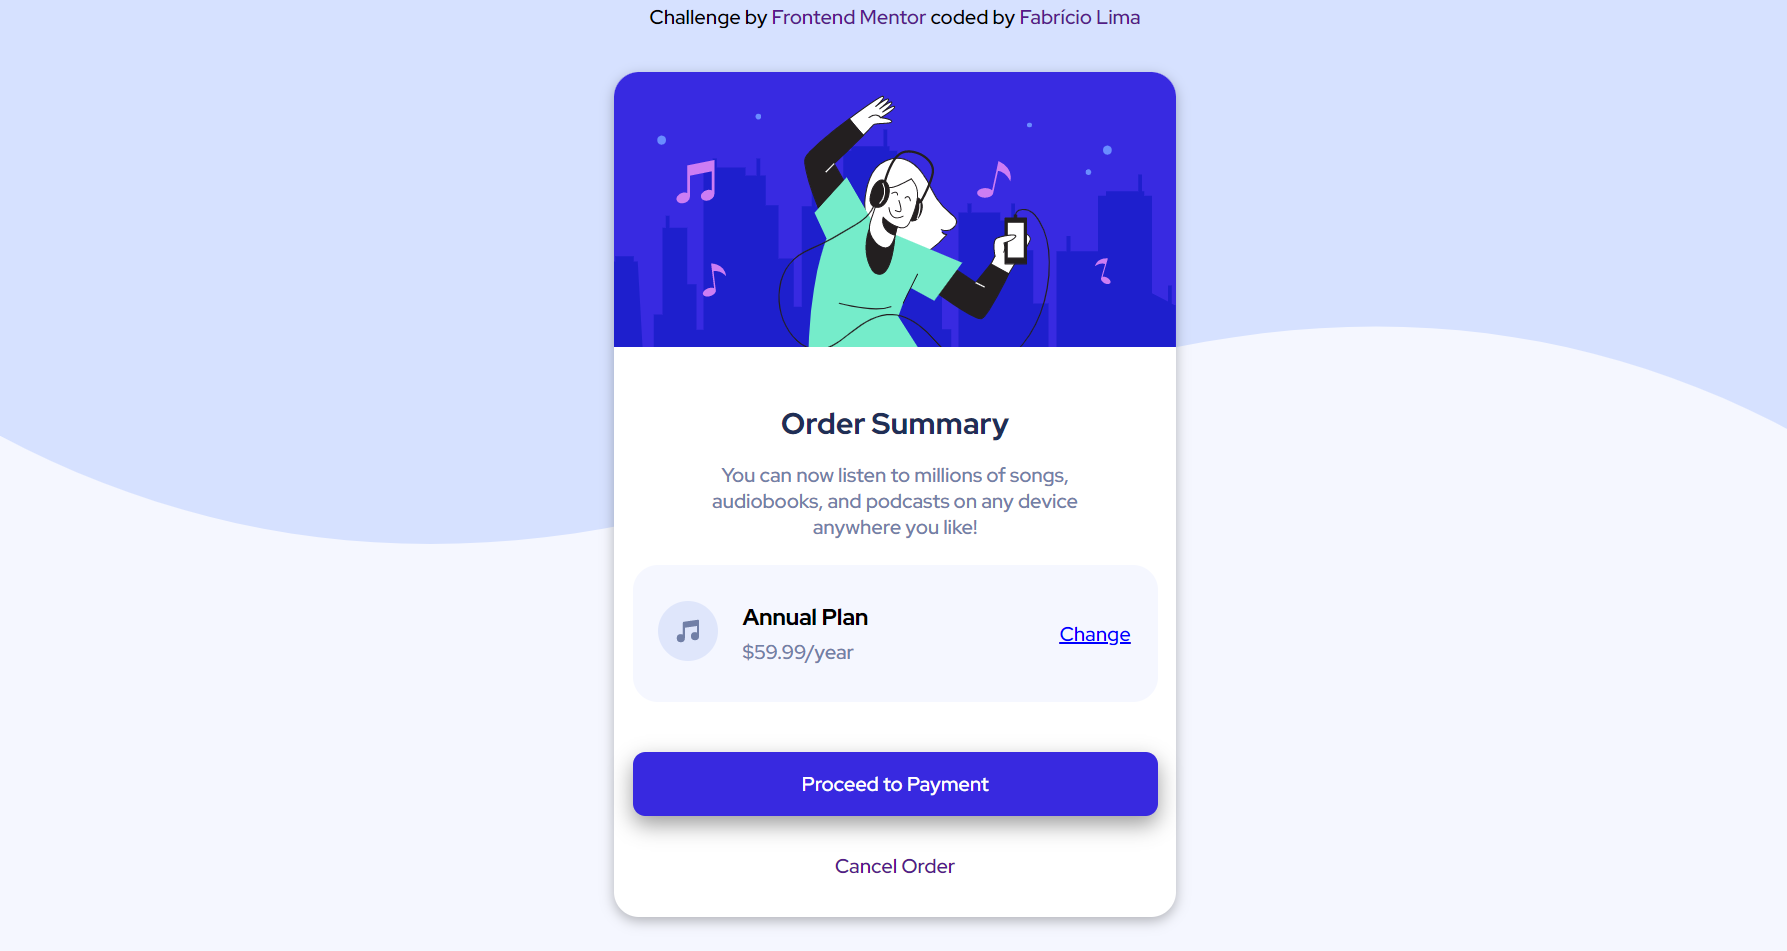
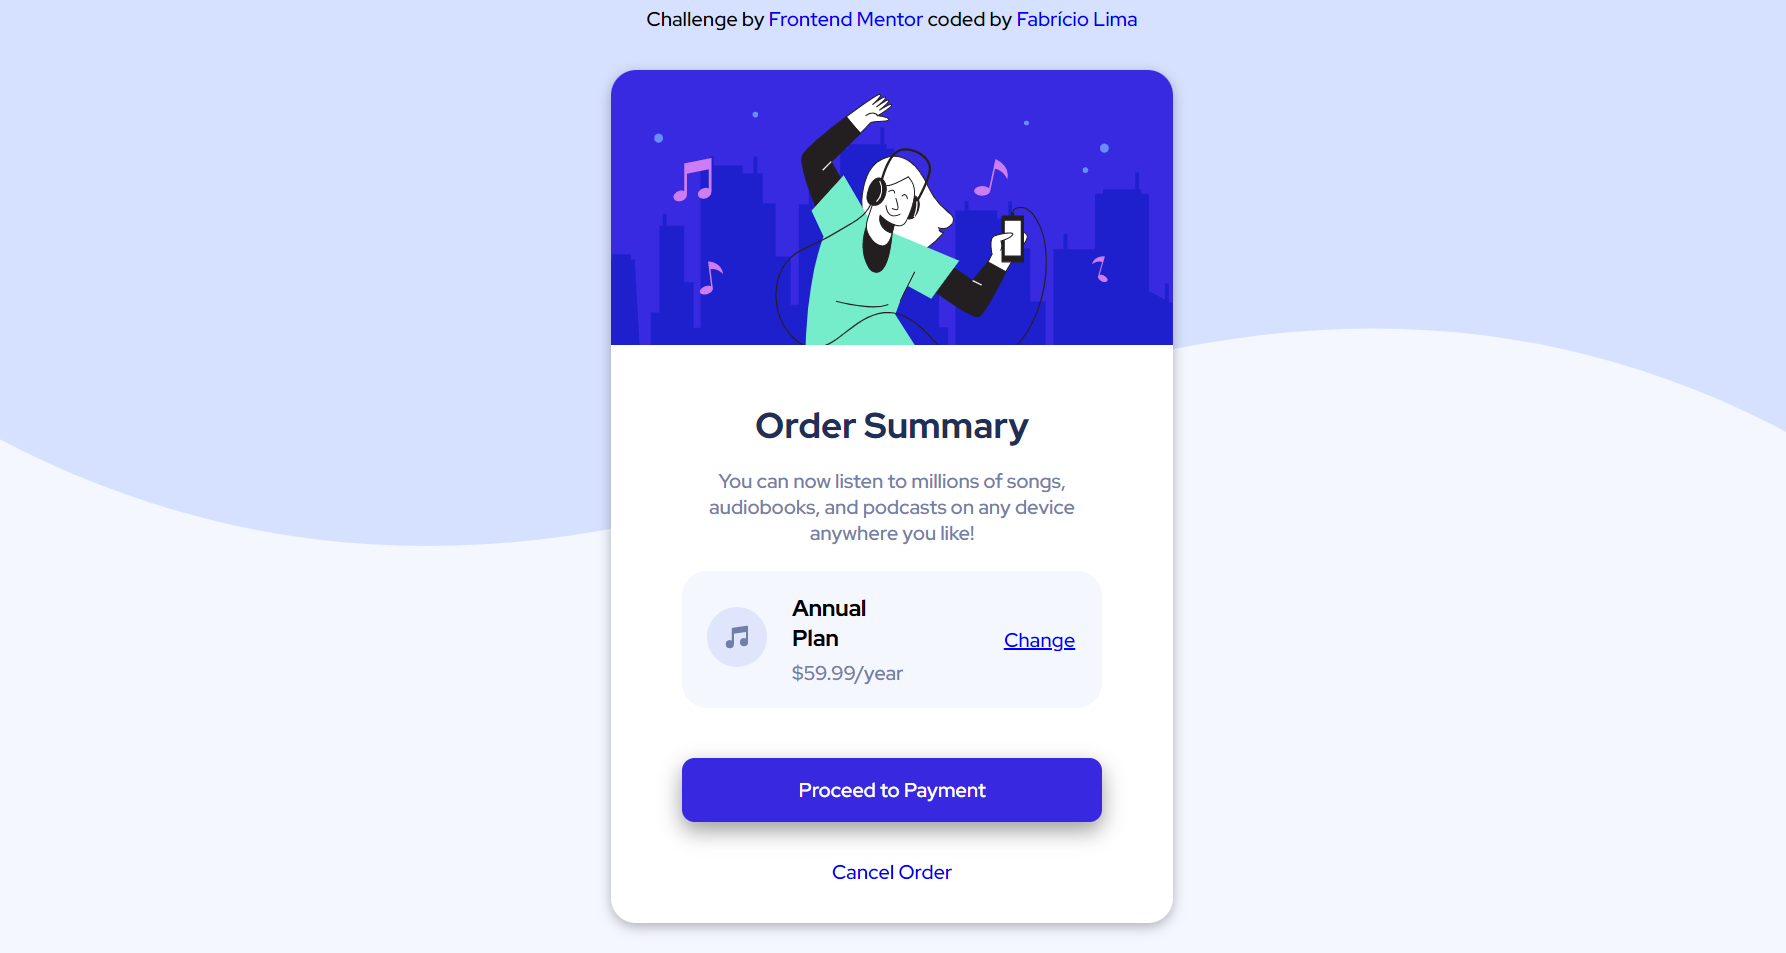
fixing the responsiveness

diff --git a/style.css b/style.css
@@ -104,9 +104,7 @@ header a{
     height: 110px;
     align-items: center;
     margin: auto;
-    width: 80%;
-    
-    
+    width: 100%;
 }
 
 #atual_plan{
@@ -143,7 +141,7 @@ header a{
     border-bottom-right-radius: 20px;
     border-top-right-radius: 20px;
 
-    width: 100px;
+    width: 70px;
     height: 110px;
     display: flex;
     align-items: center;
@@ -213,6 +211,9 @@ header a{
     #top_image{
         width: 450px;
     }
+    #change_plan{
+        width: 80%;
+    }
 }
 
 /*background in desktop*/
@@ -220,6 +221,10 @@ header a{
     body{
         background-image: url('images/pattern-background-desktop.svg');
         background-repeat: repeat-x;
+    }
+
+    #change_button{
+        width: 100px;
     }
 }
 

diff --git a/README.md b/README.md
@@ -25,7 +25,7 @@ Users should be able to:
 
 ### Screenshot
 
-![](./)
+![](./screenshots/desktop-screenshot.png)
 ![](./)
 
 
